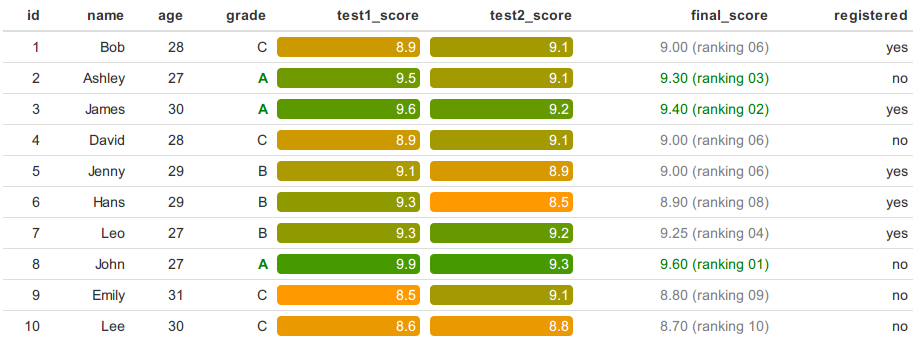
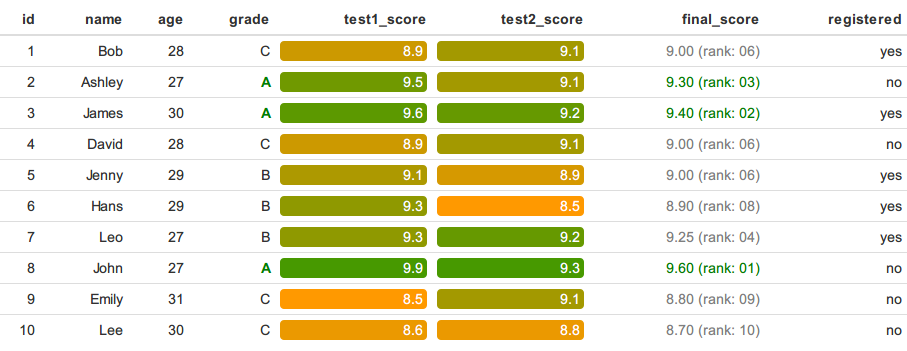
refine demo

diff --git a/README.md b/README.md
@@ -76,7 +76,7 @@ formattable(df, list(
   test2_score = score_colorizer,
   final_score = formatter("span",
     style = function(x) style(color = ifelse(rank(-x) <= 3, "green", "gray")),
-    function(x) sprintf("%.2f (ranking %02d)", x, rank(-x))),
+    function(x) sprintf("%.2f (rank: %02d)", x, rank(-x))),
   registered = function(x) ifelse(x, "yes", "no")
 ))
 ```
